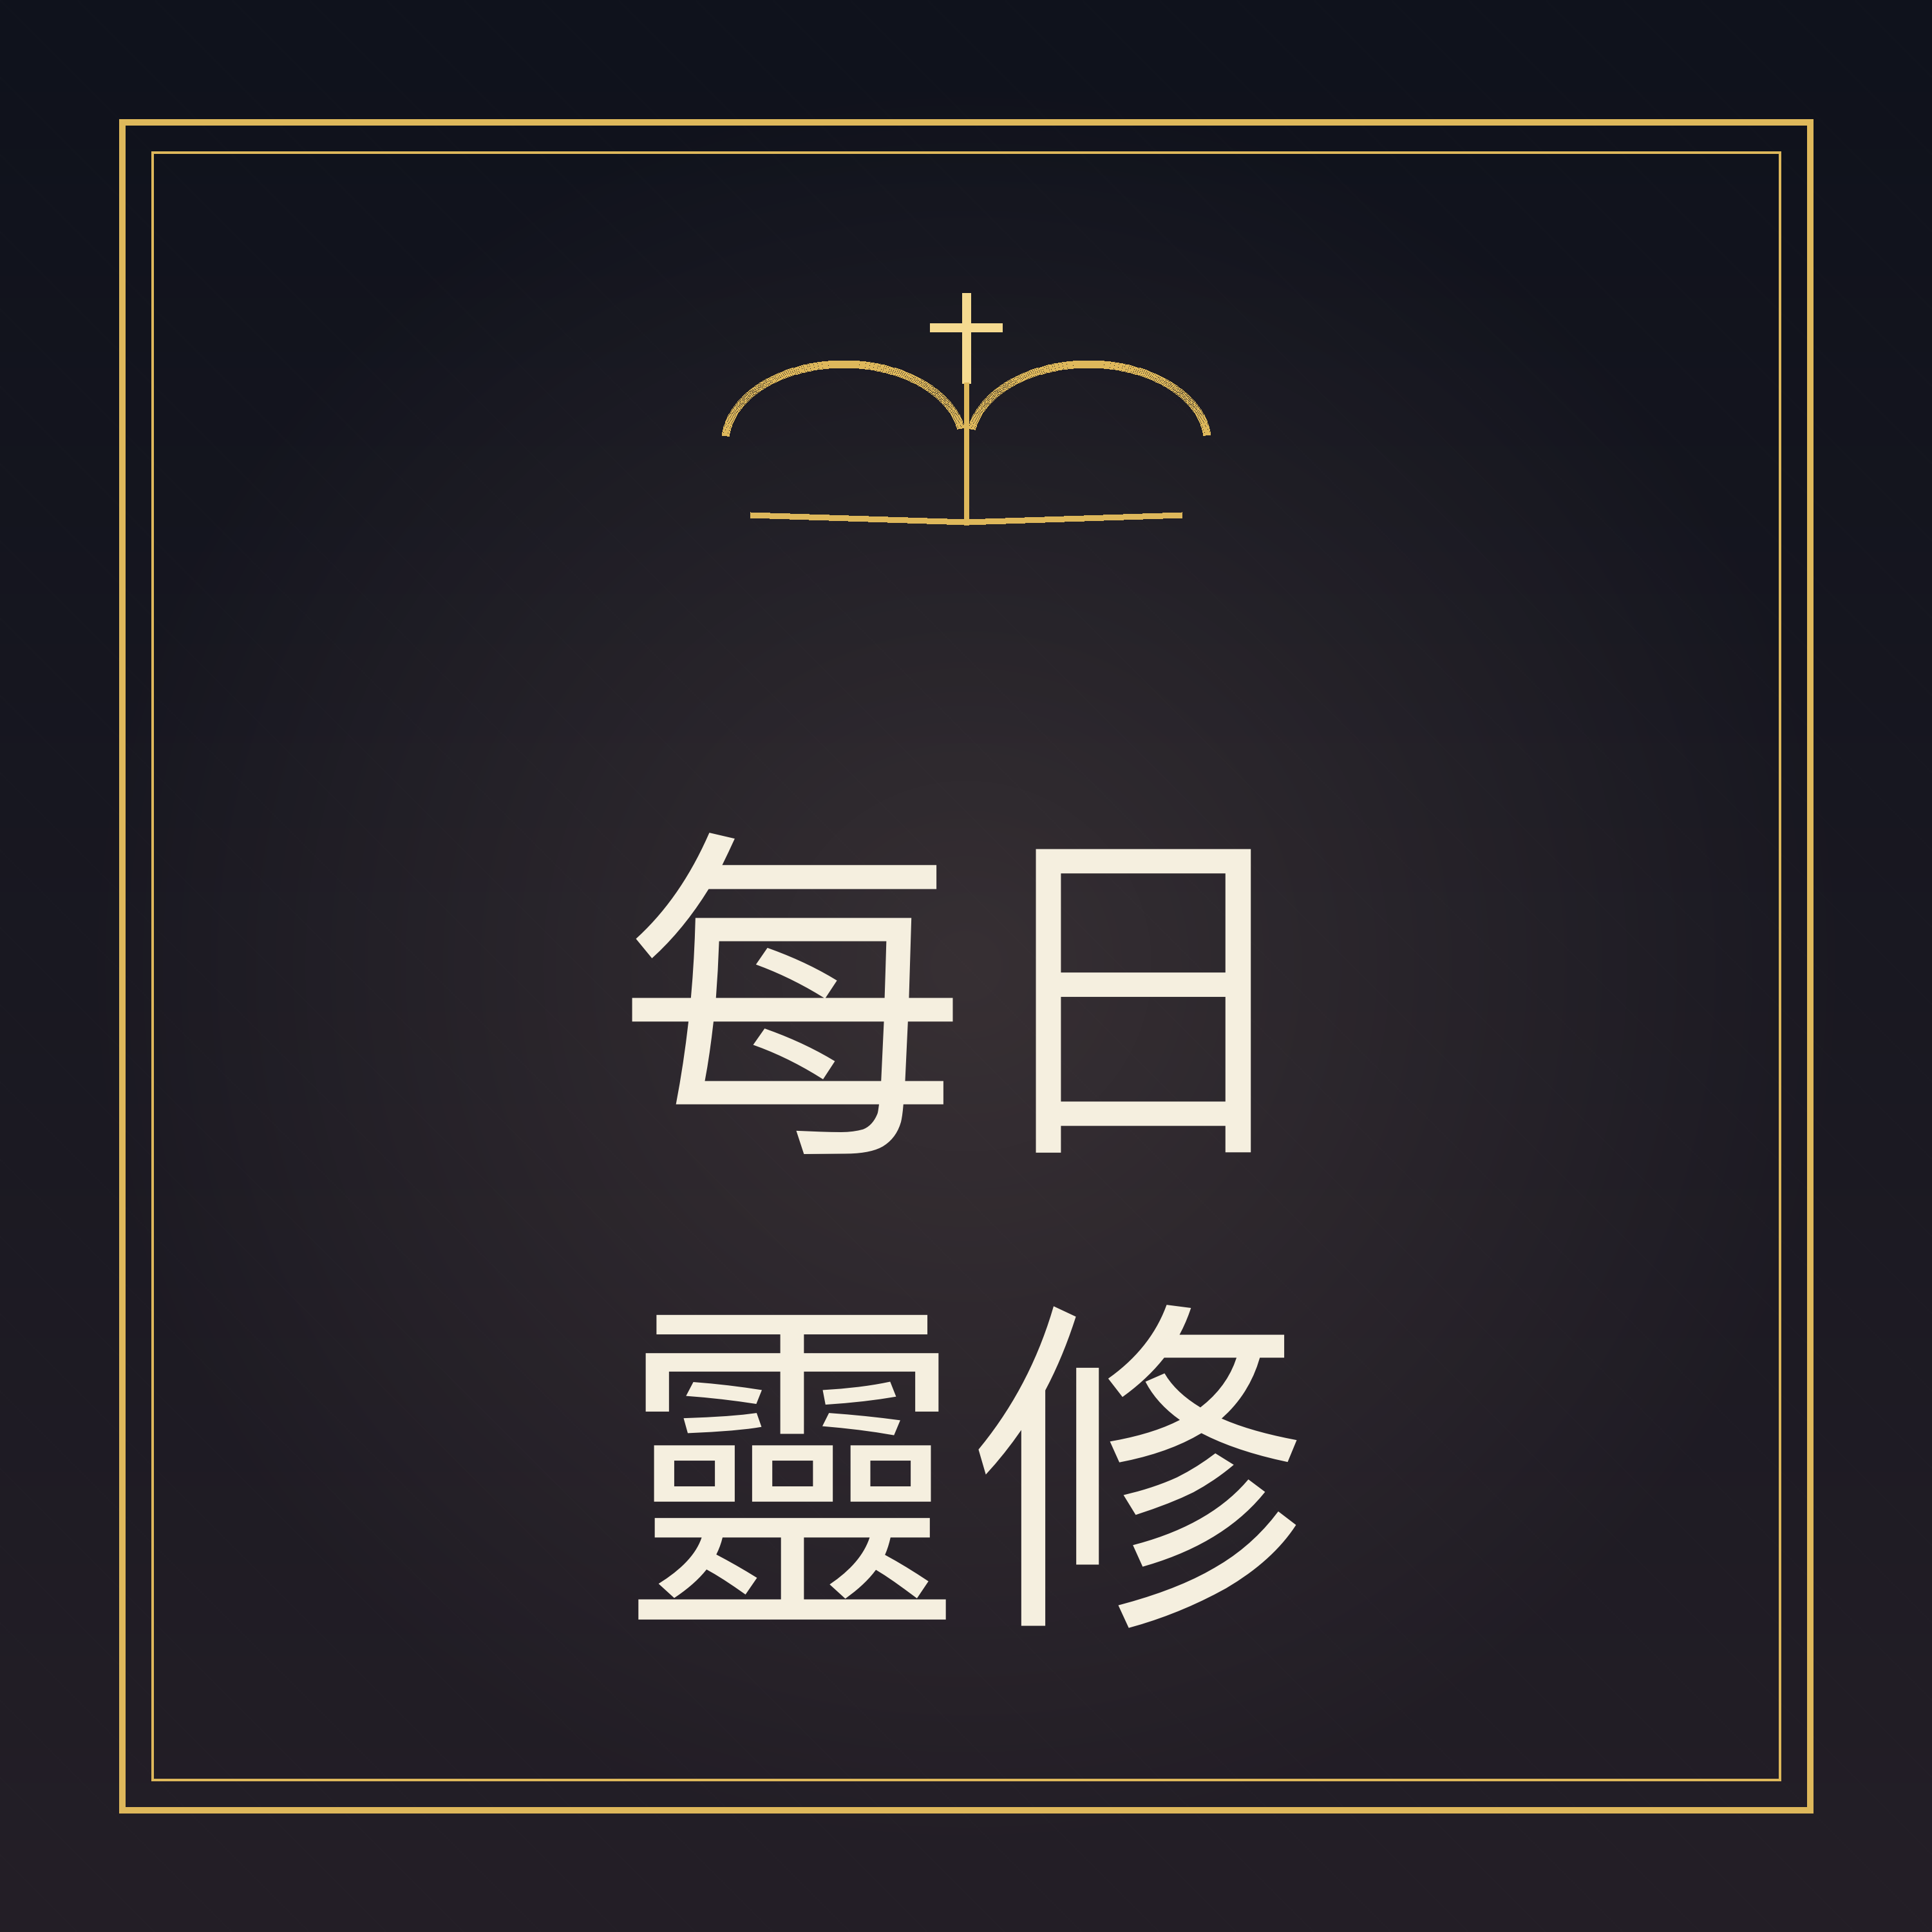
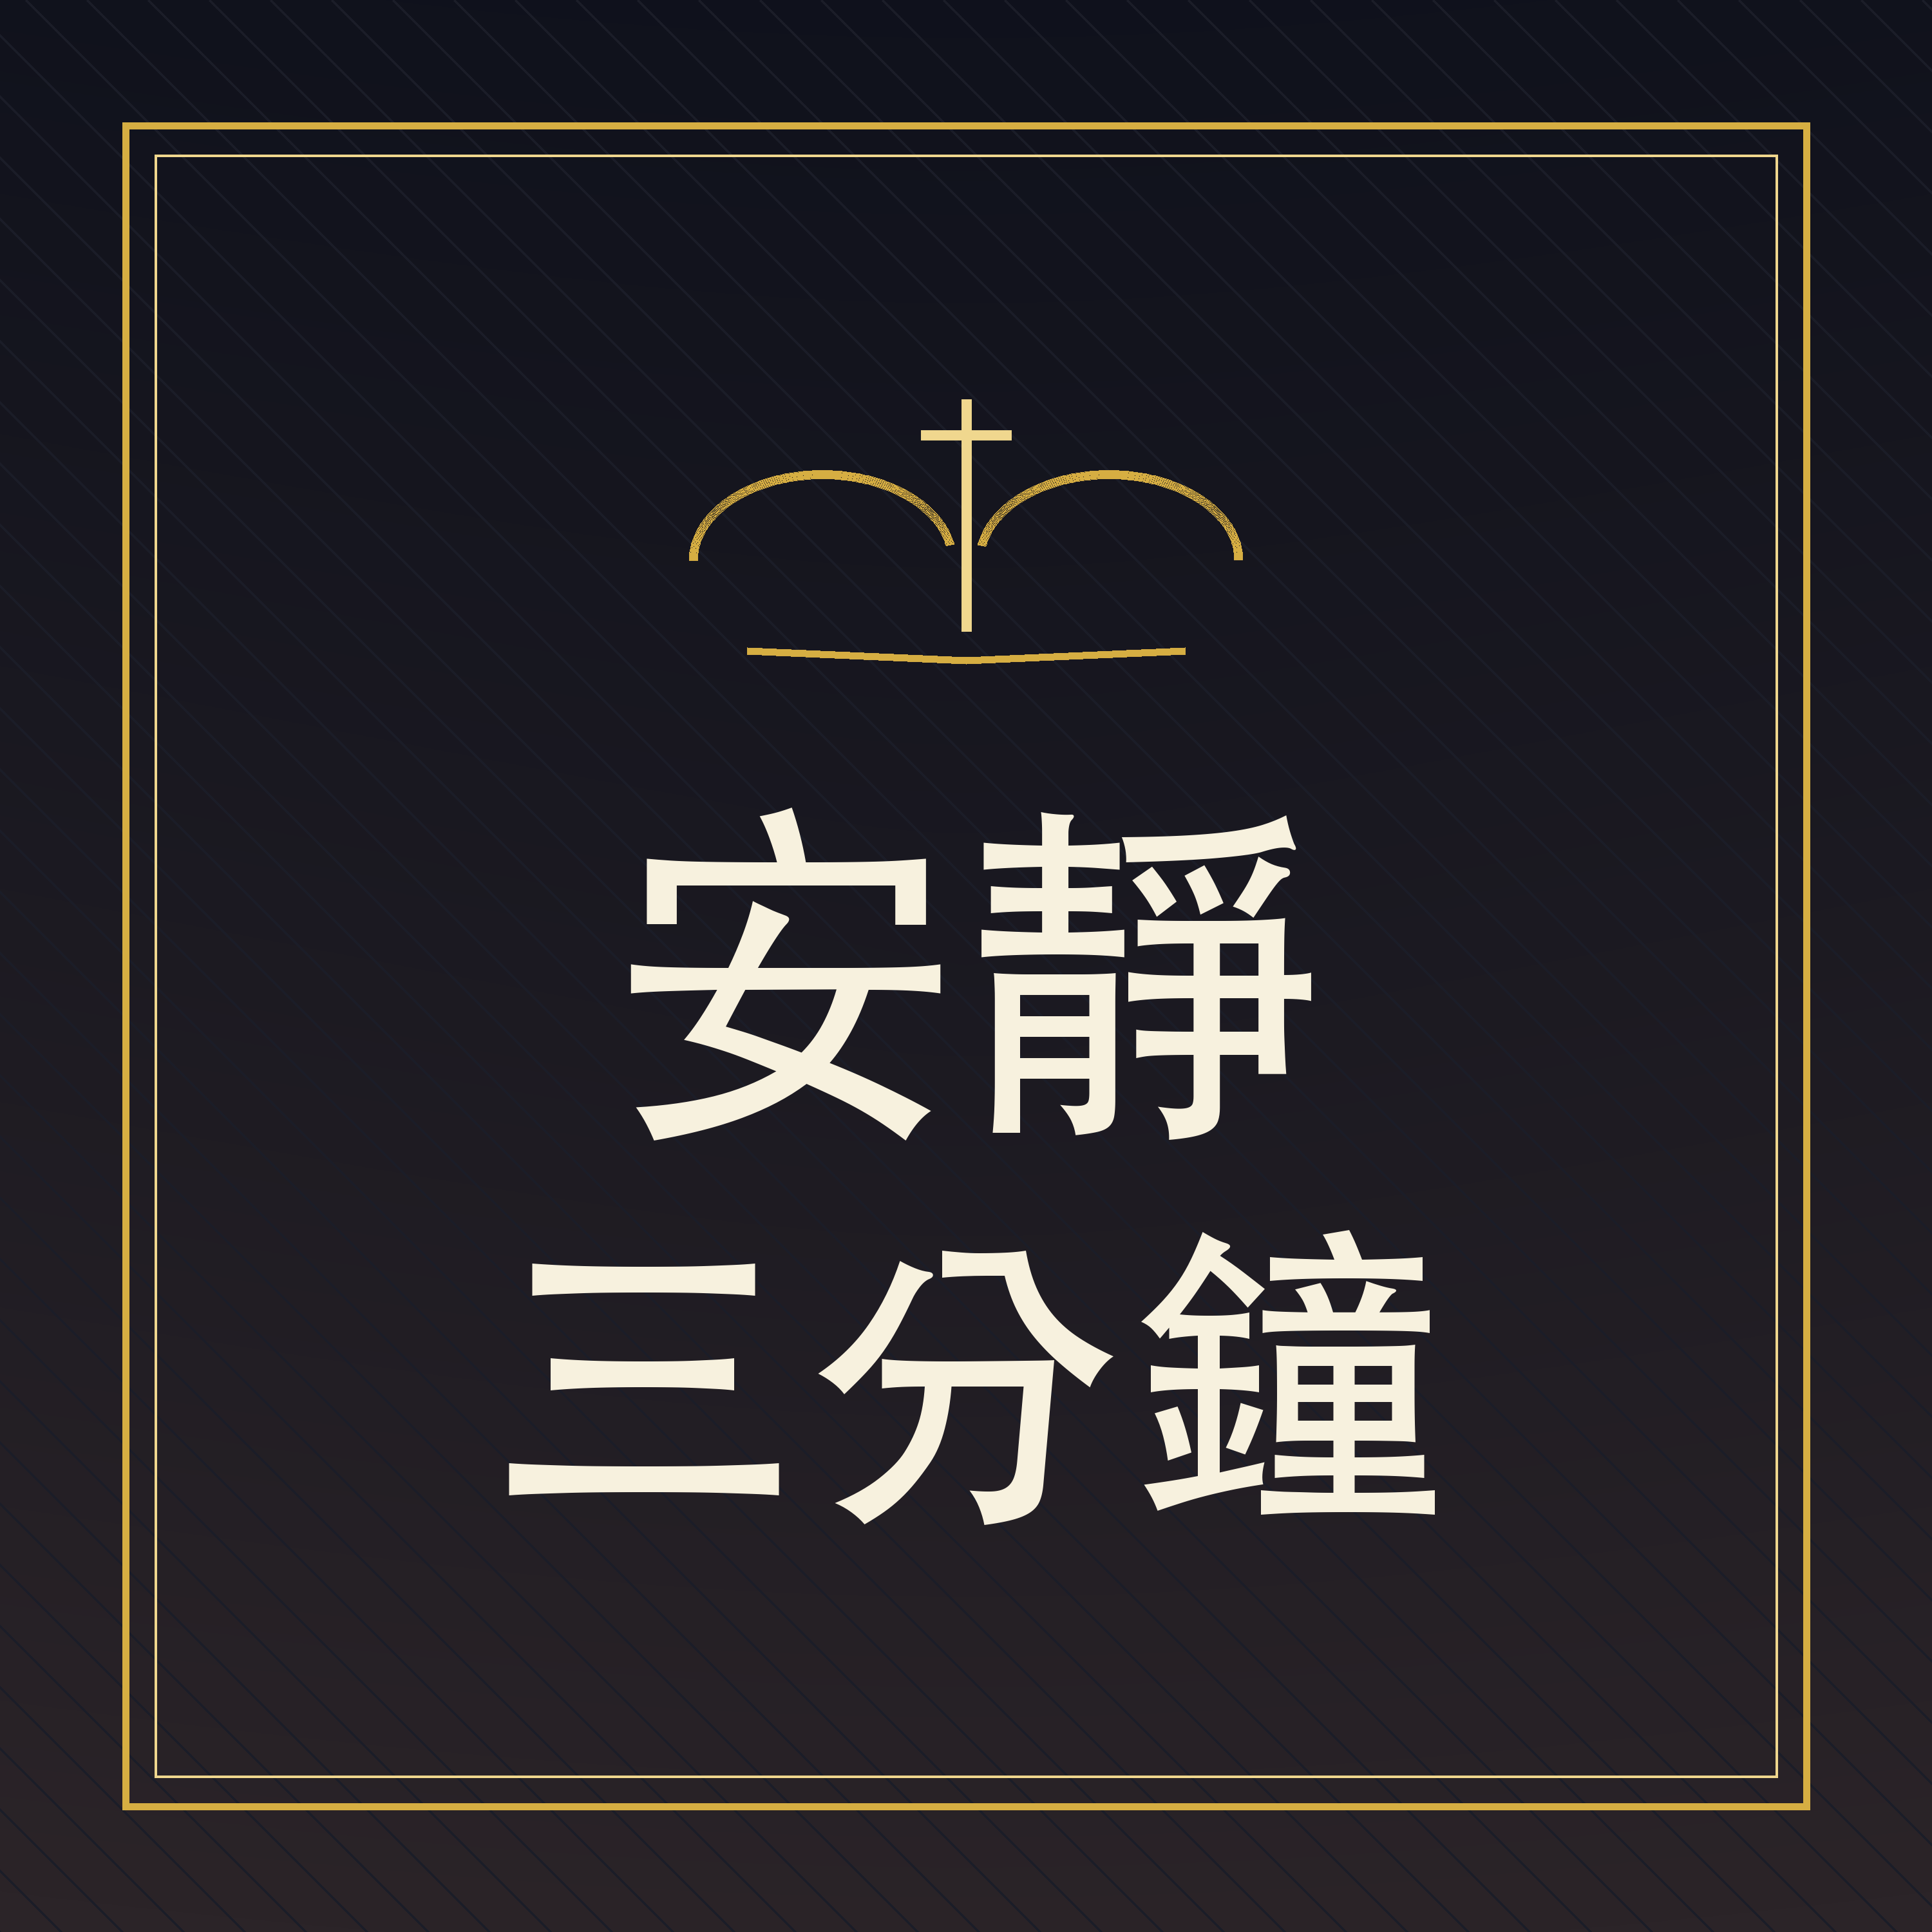
Improve podcast episode descriptions

diff --git a/src/cloudflare-trigger.js b/src/cloudflare-trigger.js
@@ -172,7 +172,8 @@ async function podcastFeedResponse(request, env) {
 
   const items = rows.map((item) => {
     const episodeTitle = `每日靈修 - ${item.verse_reference || item.date}`;
-    const episodeDescription = `${item.verse_text || ""}\n\n${item.exposition || ""}`.trim();
+    const episodeDescription = buildEpisodeDescription(item);
+    const episodeHtmlDescription = buildEpisodeHtmlDescription(episodeDescription);
     const pubDate = new Date(item.published_at || item.date).toUTCString();
     const guid = item.podcast_guid || `daily-bible-${item.date}`;
 
@@ -180,6 +181,7 @@ async function podcastFeedResponse(request, env) {
     <item>
       <title>${escapeXml(episodeTitle)}</title>
       <description>${escapeXml(episodeDescription)}</description>
+      <content:encoded><![CDATA[${episodeHtmlDescription}]]></content:encoded>
       <itunes:summary>${escapeXml(episodeDescription)}</itunes:summary>
       <pubDate>${escapeXml(pubDate)}</pubDate>
       <guid isPermaLink="false">${escapeXml(guid)}</guid>
@@ -190,7 +192,7 @@ async function podcastFeedResponse(request, env) {
   }).join("");
 
   const xml = `<?xml version="1.0" encoding="UTF-8"?>
-<rss version="2.0" xmlns:atom="http://www.w3.org/2005/Atom" xmlns:itunes="http://www.itunes.com/dtds/podcast-1.0.dtd">
+<rss version="2.0" xmlns:atom="http://www.w3.org/2005/Atom" xmlns:content="http://purl.org/rss/1.0/modules/content/" xmlns:itunes="http://www.itunes.com/dtds/podcast-1.0.dtd">
   <channel>
     <title>${escapeXml(title)}</title>
     <link>${escapeXml(siteUrl)}</link>
@@ -239,6 +241,80 @@ function escapeXml(value) {
     .replace(/>/g, "&gt;")
     .replace(/"/g, "&quot;")
     .replace(/'/g, "&apos;");
+}
+
+function escapeHtml(value) {
+  return String(value ?? "")
+    .replace(/&/g, "&amp;")
+    .replace(/</g, "&lt;")
+    .replace(/>/g, "&gt;")
+    .replace(/"/g, "&quot;")
+    .replace(/'/g, "&#39;");
+}
+
+function buildEpisodeDescription(item) {
+  const verse = normalizeInlineText(item.verse_text || "");
+  const reference = normalizeInlineText(item.verse_reference || "");
+  const bodyParagraphs = stripRepeatedOpeningVerse(item.exposition || "", verse, reference);
+  const prayerIndex = bodyParagraphs.findIndex((paragraph) => paragraph.includes("我們一起來禱告"));
+  const reflection = prayerIndex >= 0 ? bodyParagraphs.slice(0, prayerIndex) : bodyParagraphs;
+  const prayer = prayerIndex >= 0 ? bodyParagraphs.slice(prayerIndex) : [];
+  const sections = [];
+
+  if (verse) {
+    sections.push("【今日經文】");
+    sections.push(reference ? `${verse}（${reference}）` : verse);
+  }
+
+  if (reflection.length) {
+    sections.push("");
+    sections.push("【靈修默想】");
+    sections.push(reflection.join("\n\n"));
+  }
+
+  if (prayer.length) {
+    sections.push("");
+    sections.push("【今日禱告】");
+    sections.push(prayer.join("\n\n"));
+  }
+
+  return sections.join("\n").trim();
+}
+
+function buildEpisodeHtmlDescription(description) {
+  return description
+    .split(/\n{2,}/)
+    .map((block) => `<p>${escapeHtml(block).replace(/\n/g, "<br>")}</p>`)
+    .join("");
+}
+
+function stripRepeatedOpeningVerse(exposition, verse, reference) {
+  const paragraphs = splitParagraphs(exposition);
+  if (!paragraphs.length) {
+    return [];
+  }
+
+  const firstParagraph = normalizeInlineText(paragraphs[0]);
+  const firstParagraphHasVerse = verse && firstParagraph.includes(verse);
+  const firstParagraphHasReference = reference && firstParagraph.includes(reference);
+
+  if (firstParagraphHasVerse || (firstParagraphHasReference && firstParagraph.length < 120)) {
+    return paragraphs.slice(1);
+  }
+
+  return paragraphs;
+}
+
+function splitParagraphs(value) {
+  return String(value || "")
+    .replace(/\r\n/g, "\n")
+    .split(/\n{2,}|\n/)
+    .map((paragraph) => normalizeInlineText(paragraph))
+    .filter(Boolean);
+}
+
+function normalizeInlineText(value) {
+  return String(value || "").replace(/\s+/g, " ").trim();
 }
 
 function formatDuration(milliseconds) {

diff --git a/CHANGELOG.md b/CHANGELOG.md
@@ -2,6 +2,13 @@
 
 All notable changes to this project will be documented in this file.
 
+## [2026-05-31] - Podcast episode description 排版
+### Changed
+- Podcast episode description 改成「今日經文 / 靈修默想 / 今日禱告」三段式格式，並移除 RSS 中重複出現的開頭經文段落。
+- Episode RSS 新增 `content:encoded` HTML 版本，保留 `description` 與 `itunes:summary` 的純文字版本，提升 Apple Podcasts 與其他 podcast app 的 show notes 顯示相容性。
+- Podcast cover 圖中文字更新為「安靜三分鐘」。
+- **驗證結果**: 已部署 Cloudflare Worker version `f8ef795d-e9d5-44c8-a2c9-b00a921a69b5`；正式環境 `/feed.rss` 與 `/podcast.xml` 均回傳新版 episode description 排版。
+
 ## [2026-05-30] - Podcast RSS .rss 別名
 ### Fixed
 - **現狀**: Apple Podcasts Connect 使用者嘗試改填 `https://daily-bible-bot-trigger.tokpmpm.workers.dev/feed.rss` 時，Worker 原先回傳 404；修正 `.rss` GET 後，節目仍長時間停在「處理節目詳細資訊」。